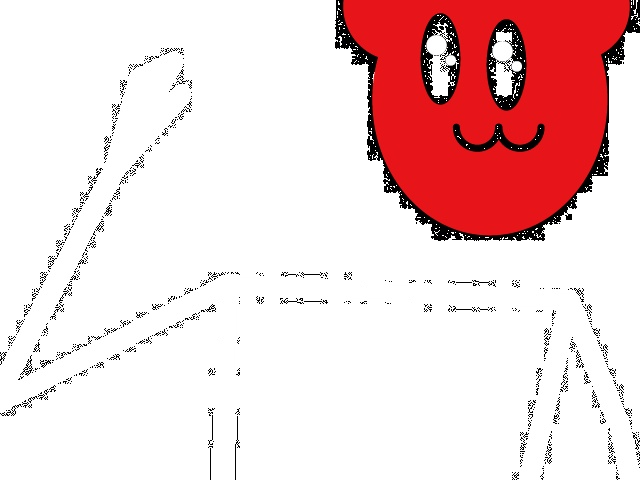
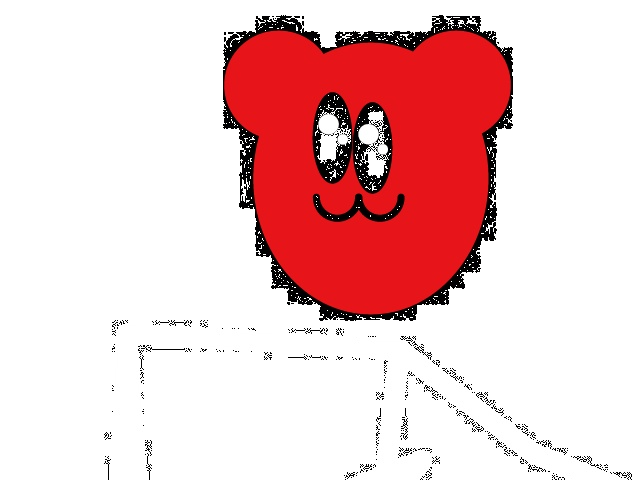
resize according to distance

diff --git a/tiikawapose.py b/tiikawapose.py
@@ -7,10 +7,10 @@ from PIL import Image
 mp_pose = mp.solutions.pose
 
 # 貼り付ける透過背景付き画像の読み込み
-face_image = cv2.imread('character_face.png', cv2.IMREAD_UNCHANGED)
-left_eye_image = cv2.imread('eye_image.png', cv2.IMREAD_UNCHANGED)
-right_eye_image = cv2.imread('eye_image.png', cv2.IMREAD_UNCHANGED)
-mouth_image = cv2.imread('mouth_image.png', cv2.IMREAD_UNCHANGED)
+face_image = cv2.imread('./images/chi1/character_face.png', cv2.IMREAD_UNCHANGED)
+left_eye_image = cv2.imread('./images/chi1/eye_image.png', cv2.IMREAD_UNCHANGED)
+right_eye_image = cv2.imread('./images/chi1/eye_image.png', cv2.IMREAD_UNCHANGED)
+mouth_image = cv2.imread('./images/chi1/mouth_image.png', cv2.IMREAD_UNCHANGED)
 
 # カメラ映像の取得
 cap = cv2.VideoCapture(0)
@@ -20,9 +20,19 @@ black_img0 = Image.new('RGBA', (640, 480), (0, 0, 0, 200))
 black_img0.save('black_image_with_alpha.png')
 black_img = cv2.imread('black_image_with_alpha.png', cv2.IMREAD_UNCHANGED)
 
+# 画像をリサイズする関数
+def resize_image(image, scale):
+    # スケーリング処理
+    new_size = (int(image.shape[1] * scale), int(image.shape[0] * scale))
+    resized_image = cv2.resize(image, new_size, interpolation=cv2.INTER_AREA)
+
+    return resized_image
+
 # 画像を重ねる関数
 def overlay_image(bg_img, fg_img, position, angle=0, scale=1.0):
     
+    fg_img = resize_image(fg_img, scale)
+
     x, y = position
     h, w = bg_img.shape[:2]
     fg_h, fg_w = fg_img.shape[:2]
@@ -58,7 +68,7 @@ def trans_back(fname):
     img.save(fname, "PNG")
 
 # スケルトンを描画する関数
-def draw_thick_skeleton(image, landmarks, connections, thickness=20, color=(0, 0, 255)):
+def draw_thick_skeleton(image, landmarks, connections, thickness=20, color=(255, 255, 255)):
     height, width = image.shape[:2]
     for connection in connections:
         start_idx, end_idx = connection
@@ -90,7 +100,7 @@ with mp_pose.Pose(min_detection_confidence=0.5, min_tracking_confidence=0.5) as 
 
         # 全身骨格の極太描画
         if results.pose_landmarks:
-            draw_thick_skeleton(image, results.pose_landmarks.landmark, mp_pose.POSE_CONNECTIONS, thickness=20, color=(0, 0, 255))
+            draw_thick_skeleton(image, results.pose_landmarks.landmark, mp_pose.POSE_CONNECTIONS, thickness=20, color=(255, 255, 255))
 
             # 目と口のランドマークを取得し、回転とスケーリングを考慮
             nose = results.pose_landmarks.landmark[mp_pose.PoseLandmark.NOSE]
